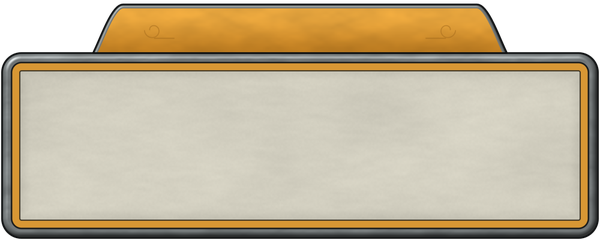
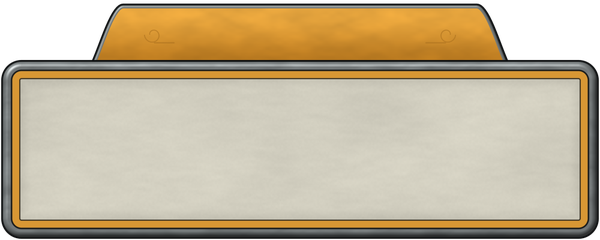
Text box: a taller tab, so its word clears the rim
The redrawn tab was 2 dp shorter than the print's, which sat "Attack" almost on
the rim. It's now 14 dp; a box with no word for its tab starts below it, with its
top inset at 6 dp so that rim keeps its scale.

Changed region(s): [[0.0, 0.0292, 1.0, 0.35], [0.78, 0.0292, 0.81, 0.0583]]

diff --git a/core/designsystem/src/main/kotlin/dev/quinton/goa/core/designsystem/component/LookParts.kt b/core/designsystem/src/main/kotlin/dev/quinton/goa/core/designsystem/component/LookParts.kt
@@ -379,7 +379,7 @@ fun CardTextBox(
     val fontScale = LocalDensity.current.fontScale
     Box(
         modifier.drawWithCache {
-            val top = if (cap != null) 20.dp else 8.dp
+            val top = if (cap != null) 20.dp else 6.dp
             val dst = SliceInsets(11.dp.roundToPx(), top.roundToPx(), 11.dp.roundToPx(), 9.dp.roundToPx())
             onDrawBehind {
                 if (box != null) {
@@ -523,7 +523,7 @@ private val TITLE_SLICE = SliceInsets(52, 31, 132, 31)
 private val BOX_SLICE = SliceInsets(48, 87, 48, 39)
 
 /** Where a box's rim starts under its tab, in source pixels. */
-private const val BOX_TAB_ROWS = 52
+private const val BOX_TAB_ROWS = 60
 private val CAP_SHADOW = Shadow(Color(0xB0000000), Offset(0f, 1f), 2f)
 private val BEVEL_OUTLINE = Color(0xFF05090D)
 private val BEVEL_FILL = Brush.verticalGradient(

diff --git a/design/look/render_parts.py b/design/look/render_parts.py
@@ -409,10 +409,10 @@ def banner():
 # ---------- The text boxes ----------
 
 # Drawn at 1000 x 400, written at 3/5: all five colours share one geometry. The written box's slices (left, top, right,
-# bottom) are 48, 87, 48, 39, and its tab is the top 52 rows: a box with no word for its tab starts there. LookParts.kt
+# bottom) are 48, 87, 48, 39, and its tab is the top 60 rows: a box with no word for its tab starts there. LookParts.kt
 # and the text box's border-image use the same numbers.
 BOX_W, BOX_H = 1000, 400
-BOX_TAB = 87  # Rows of the tab above the rim, as drawn.
+BOX_TAB = 100  # Rows of the tab above the rim, as drawn: 14 dp, room for its word.
 
 TABS = {
     "green": (rgb(58, 158, 62), rgb(40, 118, 44)),
